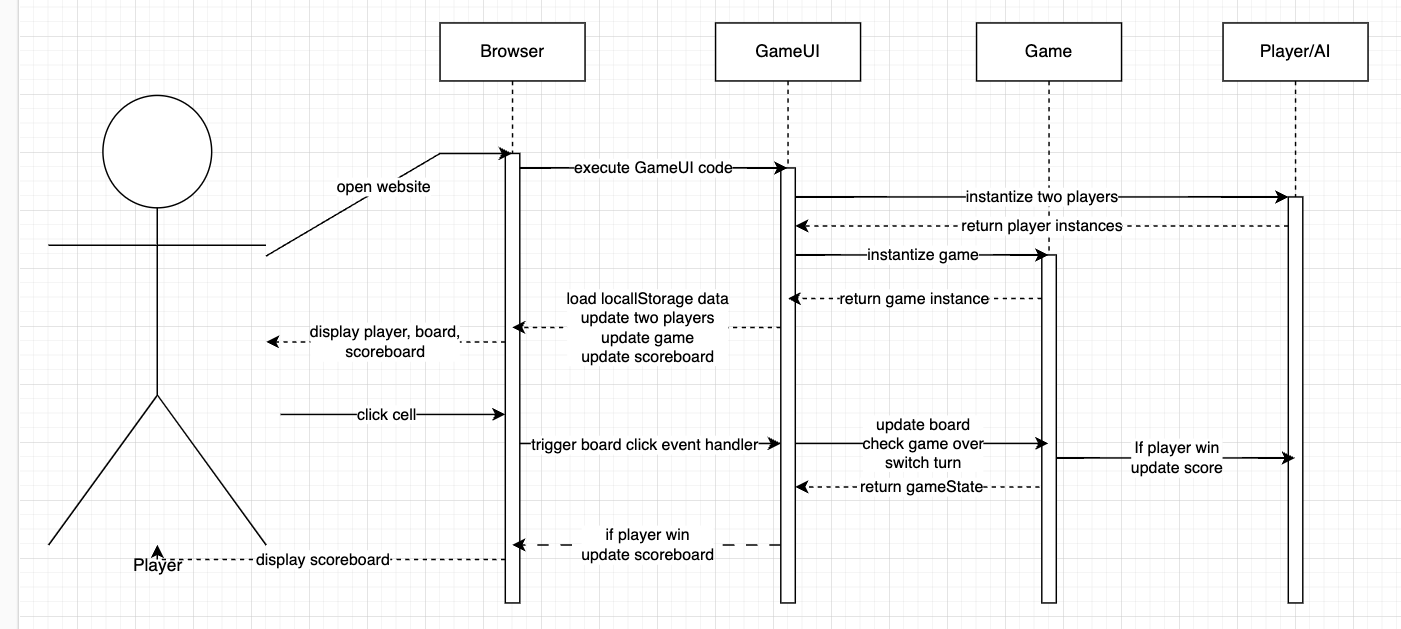
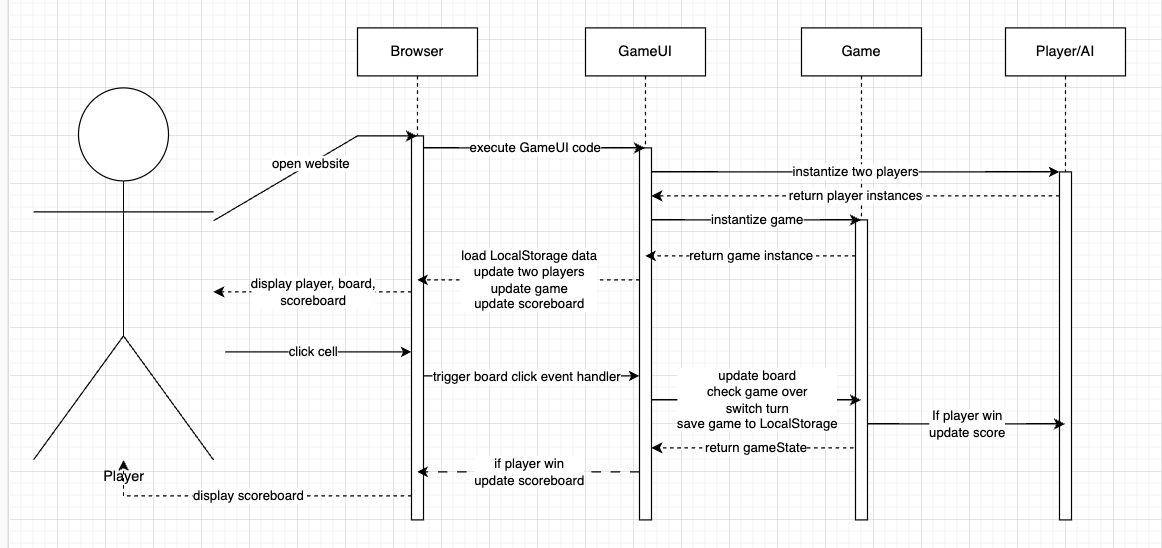
Update readme

diff --git a/README.md b/README.md
@@ -4,6 +4,18 @@ Developer: Jeff Ou
 Main goal: Make a tic-tac-toe game using all of my knowledge about web development  
 Link to the game: https://my-tic-tac-toe.herokuapp.com/
 
+# Table of Contents
+
+- [Technologies](#technologies)
+- [Technical Requirements](#technical-requirements)
+- [App Screenshots](#app-screenshots)
+- [Project Breakdown](#project-breakdown)
+- [Project Hurdles](#project-hurdles)
+- [Projec Wins](#project-wins)
+- [Planning diagram](#planning-diagram)
+- [TODO](#todo)
+- [Credits](#credits)
+
 # Technologies
 
 - **Webpack**: to combine multiple JS files into one JS file 'main.js'
@@ -43,14 +55,14 @@ Link to the game: https://my-tic-tac-toe.herokuapp.com/
 # Project Hurdles
 
 - how to manage the code when adding a new feature
-  - refactor the code so it's easy to understand
+  - always refactor the code after adding a new feature so it's easy to understand and change later.
   - follow principles of KISS, DRY, separation of concerns, one function should do one thing and use meaningful names for variables and functions
 - how to manage the data flow
   - draw a data flow chart to visualize it
 
 # Project Wins
 
-- The biggest win is that I'm able to fulfill all the user stories! Such a wonderful journey!
+- The biggest win is that I'm able to fulfill all the user stories! and that made me feel so satisfied!
 - Another great win was that I learned the necessity of planning and pseudocode.
 
 # Project Breakdown
@@ -314,9 +326,18 @@ main {
 # Planning diagram
 
 <details>
-<summary>Sequence diagram</summary>
+<summary>Local Storage sequence chart</summary>
 
 ![image](./resources/diagrams/sequence_diagram.png)
+[Link to chart](https://drive.google.com/file/d/14rg_b02h7OBDsa5ZECp-IMLD1gSfvWJV/view?usp=sharing)
+
+</details>
+
+<details>
+<summary>Online game sequence chart</summary>
+
+![image](./resources/diagrams/online_game.png)
+[Link to chart](https://drive.google.com/file/d/1bfKOrame39ZxCFQLEWaMI99M4pYDVyu8/view?usp=sharing)
 
 </details>
 
